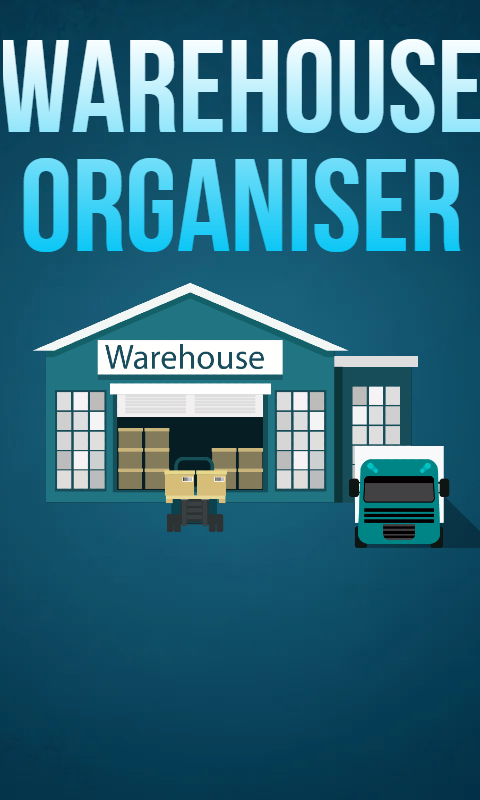
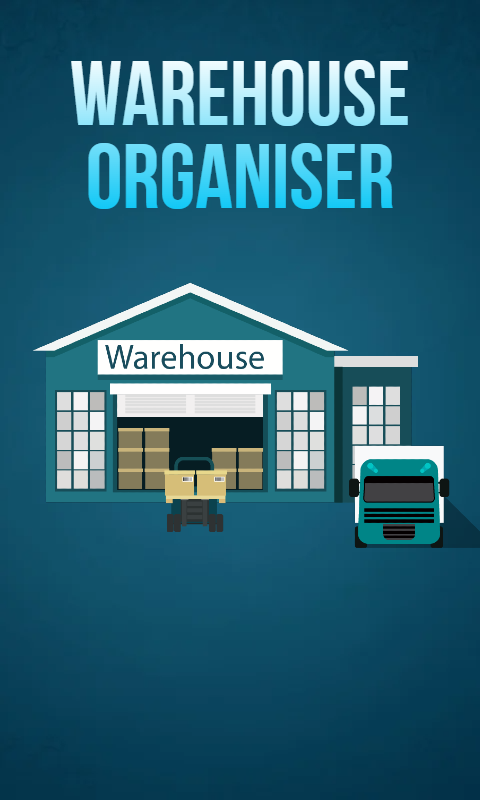
Design głównego menu

Changed region(s): [[0.0, 0.0312, 1.0, 0.3125]]

diff --git a/components/auth/Landing.js b/components/auth/Landing.js
@@ -1,5 +1,5 @@
 import React from 'react'
-import { StyleSheet,Text,View,Button,ImageBackground } from 'react-native'
+import { StyleSheet,Text,View,ImageBackground,TouchableOpacity } from 'react-native'
 import backgroundImage from '../../assets/background.png'
 
 
@@ -7,20 +7,32 @@ export default function Landing({navigation}) {
     return (
         <View style={styles.container}>
             <ImageBackground source={require=(backgroundImage)} resizeMode="cover" style={styles.image}>
+           
+            <View style={styles.buttonContainer} title="buttonContainer">
+                <View style={styles.b1}>
+                    <TouchableOpacity
+                    style={styles.button}
+                    title="Login"
+                    onPress={()=>navigation.navigate("Login")}>
+                    <Text style={styles.textStyles}>Login</Text>
+                    </TouchableOpacity>
+                </View>
+         
+                <View style={styles.b2}>
+                    <TouchableOpacity
+                    style={styles.button}
+                    title="Register"
+                    onPress={()=>navigation.navigate("Register")}>
+                    <Text style={styles.textStyles}>Register</Text>
+                </TouchableOpacity>
+            </View>
+
+            </View>
+
             </ImageBackground>
-            <Button
-            color="#313ab0"
-            title="Login"
-            onPress={()=>navigation.navigate("Login")}/>
-            <Button
-            color="#3295a8"
-            title="Register"
-            onPress={()=>navigation.navigate("Register")}/>
-            
-            
         </View>
 
-    )
+    );
 }
 
 
@@ -28,15 +40,50 @@ export default function Landing({navigation}) {
 const styles = StyleSheet.create({
     container:{
         flex:1, 
-        justifyContent: 'center',
+
         
     },
     image: {
         width: '100%',
         height: '100%',
-        flex: 1 
+        flex: 1,
+        justifyContent:"center"
       },
 
+    buttonContainer:{
+
+        display:"flex",
+        justifyContent:'center',
+        marginTop:"120%"
+ 
+    },
+
+    button:{
+        backgroundColor:'rgb(171,219,227)',
+        paddingBottom:10,
+        paddingTop:10,
+        borderStyle:"solid",
+        borderRadius:10,
+        maxWidth:"50%",
+        marginTop:20,
+        textAlign:'center',
+        marginLeft:"25%"
+        
+
+    },
+    b1:{
+        
+    },
+
+    b2:{
+        
+    },
+
+    textStyles:{
+        fontFamily:"Verdana",
+        color:"#454954",
+        fontWeight:"bold"
+    }
 
 
 })

diff --git a/components/auth/Register.js b/components/auth/Register.js
@@ -1,5 +1,5 @@
 import React, { Component } from 'react'
-import {View,Button,TextInput} from 'react-native'
+import {View,Button,TextInput,StyleSheet} from 'react-native'
 import firebase from 'firebase/compat/app';
 import 'firebase/compat/auth';
 import 'firebase/compat/firestore';
@@ -32,7 +32,7 @@ export class Register extends Component {
 
     render() {
         return (
-            <View>
+            <View style={styles.container}>
                 <TextInput
                 placeholder="name"
                 onChangeText={(name)=>this.setState({name})}/>
@@ -55,5 +55,9 @@ export class Register extends Component {
         )
     }
 }
+
+const styles = StyleSheet.create({
+ 
+})
 
 export default Register
